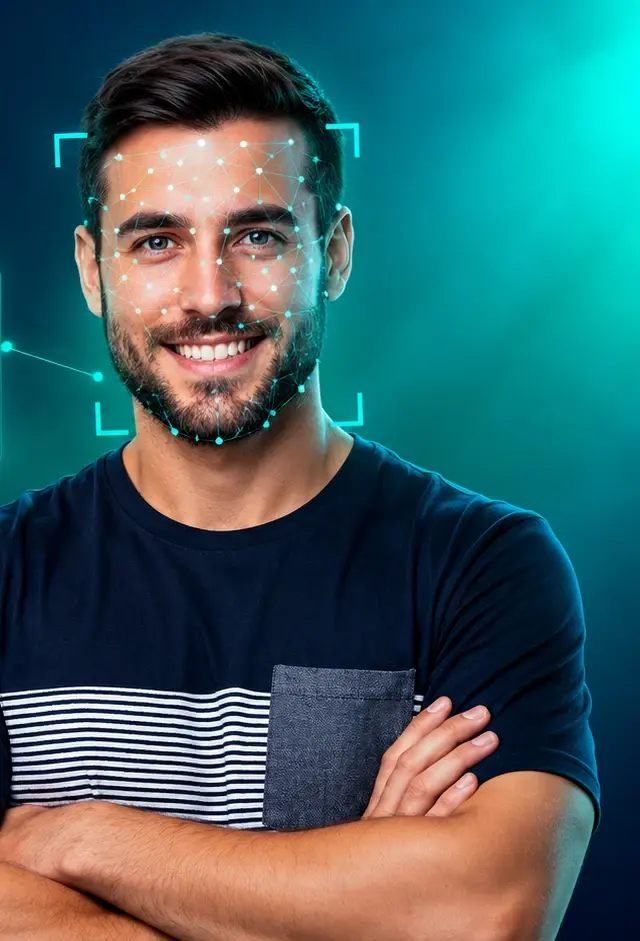
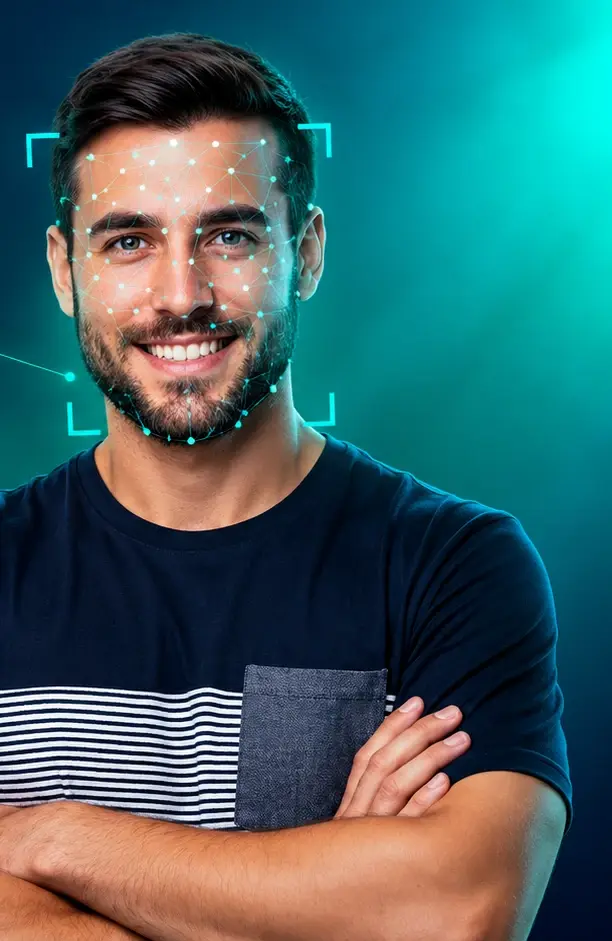
Hero da home com a foto como fundo, sem slot: imagem à direita dissolvendo no fundo
Claude-Session: https://claude.ai/code/session_012PY5njpfYtsGegr1a5xNxG

diff --git a/site/src/css/secoes.css b/site/src/css/secoes.css
@@ -231,3 +231,15 @@
 .cam__card .slot { position: relative; }
 .final .painel .t3 { color: var(--texto); }
 .form__ok .t3 { color: var(--texto); }
+
+/* Hero com foto: a imagem ocupa a lateral direita e dissolve no fundo, sem moldura nem slot */
+.hero--foto { position: relative; isolation: isolate; padding-block: 0; background: linear-gradient(180deg, var(--foto-topo) 0%, var(--foto-meio) 55%, var(--foto-base) 100%); overflow: hidden; }
+.hero--foto .hero__in { grid-template-columns: 1fr; padding-block: var(--espaco-8) var(--espaco-4); gap: 0; }
+.hero__foto { display: block; width: 100%; height: 22rem; object-fit: cover; object-position: 50% 10%; -webkit-mask-image: linear-gradient(to bottom, transparent 0, black 30%); mask-image: linear-gradient(to bottom, transparent 0, black 30%); }
+.hero__legenda { position: absolute; right: var(--margem); bottom: var(--espaco-2); z-index: 1; font-size: 0.75rem; color: var(--texto-suave); }
+@media (min-width: 900px) {
+  .hero--foto { min-height: clamp(34rem, 46vw, 42rem); display: flex; align-items: center; }
+  .hero--foto .hero__in { padding-block: var(--espaco-12); }
+  .hero--foto .hero__txt { max-width: 36rem; }
+  .hero__foto { position: absolute; right: 0; top: 0; width: min(54%, 48rem); height: 100%; z-index: -1; object-position: 50% 8%; -webkit-mask-image: linear-gradient(to right, transparent 0, black 34%); mask-image: linear-gradient(to right, transparent 0, black 34%); }
+}

diff --git a/site/src/css/tokens.css b/site/src/css/tokens.css
@@ -16,6 +16,10 @@
   /* Cores novas (web), contraste verificado na Fase D */
   --verde-hover: #8ccb1a;
   --erro: #b3261e;
+  /* Fundo do hero com foto: continua a cor de borda da foto para a imagem dissolver nele */
+  --foto-topo: #002340;
+  --foto-meio: #013a52;
+  --foto-base: #03203f;
 
   /* Tipografia */
   --fonte-titulo: "Baloo 2", "Nunito", "Segoe UI", Arial, sans-serif;

diff --git a/site/assets/fotos/LEIA-ME.md b/site/assets/fotos/LEIA-ME.md
@@ -11,5 +11,5 @@ Sem o arquivo, o site mostra um espaço reservado com a descrição da foto.
 
 ## Situação atual (01/10)
 
-- `hero.webp`: foto do rosto com a camada de reconhecimento facial, **cortada** para retirar o cartão "Autorizado" com nome de pessoa. Imagem ilustrativa.
+- `hero.webp`: foto do rosto com a camada de reconhecimento facial, **cortada** para retirar o cartão "Autorizado" com nome de pessoa. Imagem ilustrativa. No hero da home ela ocupa a lateral direita e dissolve no fundo, sem moldura; o fundo do hero usa as cores de borda da foto (`--foto-topo`, `--foto-meio`, `--foto-base` em `tokens.css`). Ao trocar a foto, ajuste essas três cores.
 - `central.webp`: central de atendimento. Imagem ilustrativa; trocar por foto real da central da Evolua quando houver.
